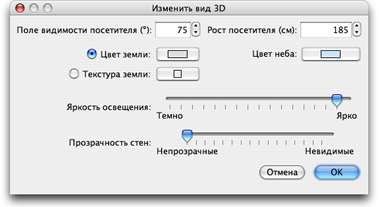
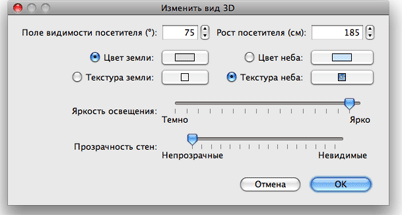
Updated screen shots in 1.5 help
git-svn-id: https://svn.code.sf.net/p/sweethome3d/code/trunk@1628 03e323e1-6c6c-46a5-9f71-c4ce5d8c6204

Changed region(s): [[0.0, 0.0, 1.0, 1.0]]

diff --git a/SweetHome3D/src/com/eteks/sweethome3d/viewcontroller/resources/help/pl/printingHome.html b/SweetHome3D/src/com/eteks/sweethome3d/viewcontroller/resources/help/pl/printingHome.html
@@ -67,7 +67,7 @@ orientacji.&nbsp;<br>
 
 Je&#347;li chcesz zmieni&#263; te parametry wybierz <i>Plik &gt; Ustawienia strony</i>.</p>
 
-      <p align="center"><img src="images/pageSetup.png" alt="Page setup" height="141" width="192"></p>
+      <p align="center"><img src="images/pageSetup.png" alt="Page setup" height="263" width="259"></p>
 
       <p>W tym panelu mo&#380;esz zmieni&#263; rozmiar papieru, jego
 orientacj&#281; etc. poprzez klikni&#281;cie przycisku <i>Format strony</i>.
@@ -78,7 +78,7 @@ maj&#261; byc drukowane, czy nie.</p>
 skorzystaj z pozycji <i>Plik
 &gt; Podgl&#261;d wydruku.&nbsp;</i></p>
 
-      <p align="center"><img src="images/printPreview.png" alt="Print preview" height="281" width="297"></p>
+      <p align="center"><img src="images/printPreview.png" alt="Print preview" height="297" width="321"></p>
 
       <p>W tym oknie podgl&#261;du wydruku mo&#380;esz przejrze&#263; strona po
 stronie jak Tw&oacute;j dom b&#281;dzie wygl&#261;da&#322; na wydruku. Aby zmieni&#263;
@@ -145,9 +145,7 @@ zostanie automatycznie odznaczona i zablokowana.</p>
             </td>
 
             <td>
-            <p>Plan i widok 3D s&#261; drukowane w taki
-spos&oacute;b aby
-zape&#322;ni&#263; jedn&#261; stron&#281; (z wyj&#261;tkiem margines&oacute;w). Wydruk 3D
+            <p>Wydruk 3D
 jest
 drukowany w rozdzielczo&#347;ci 150 dpi.&nbsp;</p>
 

diff --git a/SweetHome3D/src/com/eteks/sweethome3d/viewcontroller/resources/help/es/editingPreferences.html b/SweetHome3D/src/com/eteks/sweethome3d/viewcontroller/resources/help/es/editingPreferences.html
@@ -28,7 +28,7 @@
 	<tr>
 	<td><p>Para editar las preferencias de Sweet Home 3D, elige <i>Sweet Home 3D &gt; Preferencias...</i> en Mac OS X o <i>Archivo &gt; Preferencias...</i> en
 	    otros sistemas.</p>
-	  <p align="center"><img src="images/editingPreferences.png" width="298" height="209"></p>
+	  <p align="center"><img src="images/editingPreferences.png" width="296" height="231"></p>
 	  <p>En el panel preferencias, puedes elegir el <i>Idioma</i> usado en la interfaz de usuario de Sweet Home 3D y las <i>Unidades</i> usadas para dibujar
 	    las reglas y rejillas del plano, y mostrar las longitudes.<br>
 	    La casilla <i>Magnetismo</i> 

diff --git a/SweetHome3D/src/com/eteks/sweethome3d/viewcontroller/resources/help/pl/editingFurniture.html b/SweetHome3D/src/com/eteks/sweethome3d/viewcontroller/resources/help/pl/editingFurniture.html
@@ -356,7 +356,7 @@ oknie dost&#281;pnym poprzez podw&oacute;jneklikni&#281;cie obiektu lub menu <i>
 
       
       
-      <p align="center"><img src="images/editingFurniture.png" alt="Modify furniture" height="152" width="462"></p>
+      <p align="center"><img src="images/editingFurniture.png" alt="Modify furniture" height="214" width="444"></p>
 
 
 

diff --git a/SweetHome3D/src/com/eteks/sweethome3d/viewcontroller/resources/help/pl/editing3DView.html b/SweetHome3D/src/com/eteks/sweethome3d/viewcontroller/resources/help/pl/editing3DView.html
@@ -384,7 +384,7 @@ przesuni&#281;cie klawiszami kursora. </p>
 
       
       
-      <p align="center"><img src="images/editing3DView.png" height="204" width="374"></p>
+      <p align="center"><img src="images/editing3DView.png" height="216" width="412"></p>
 
 
 
